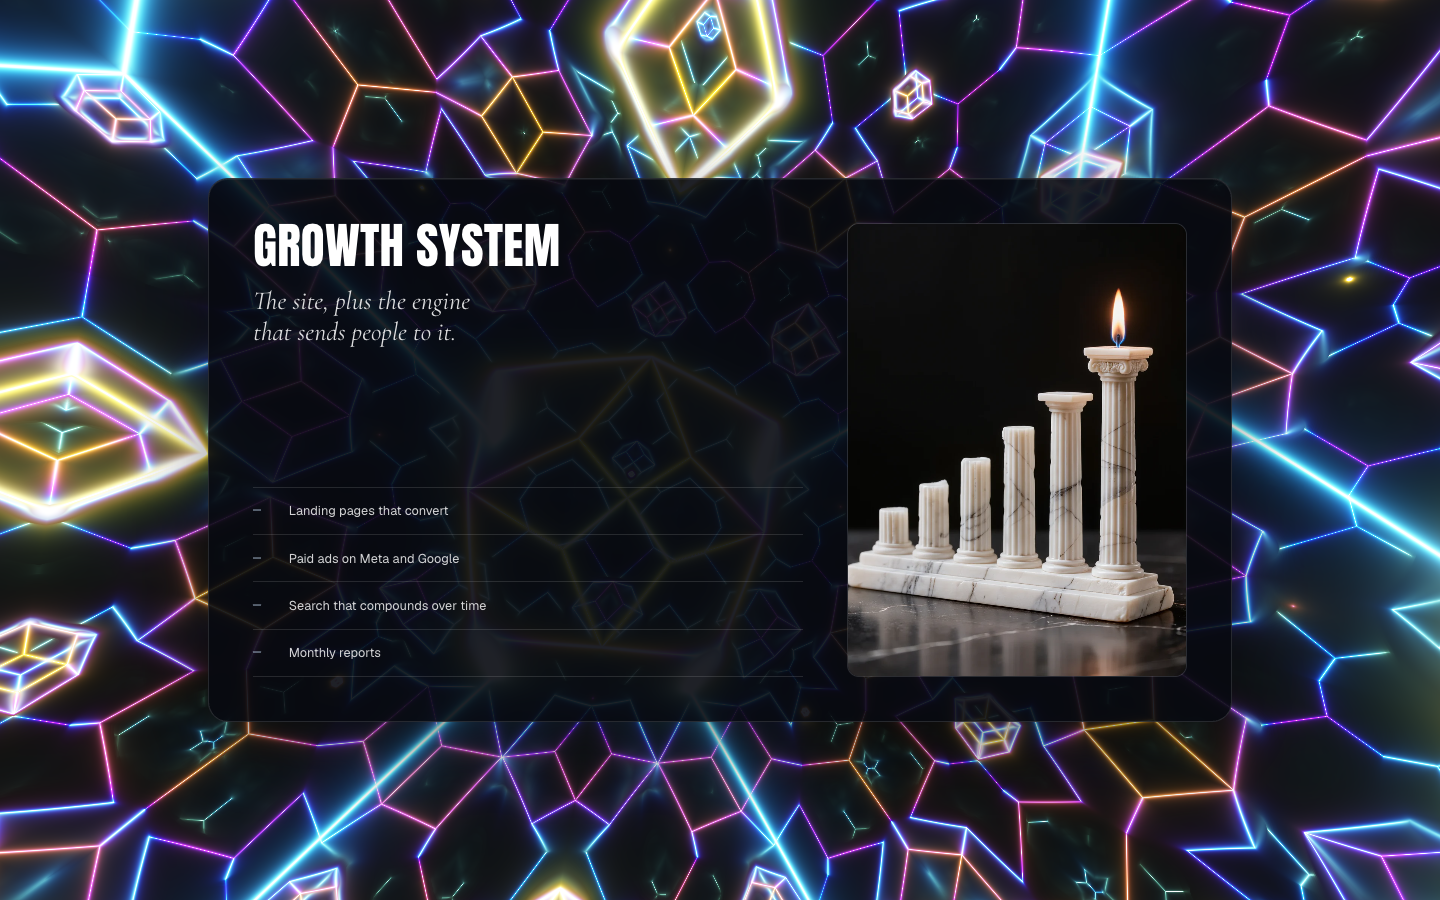
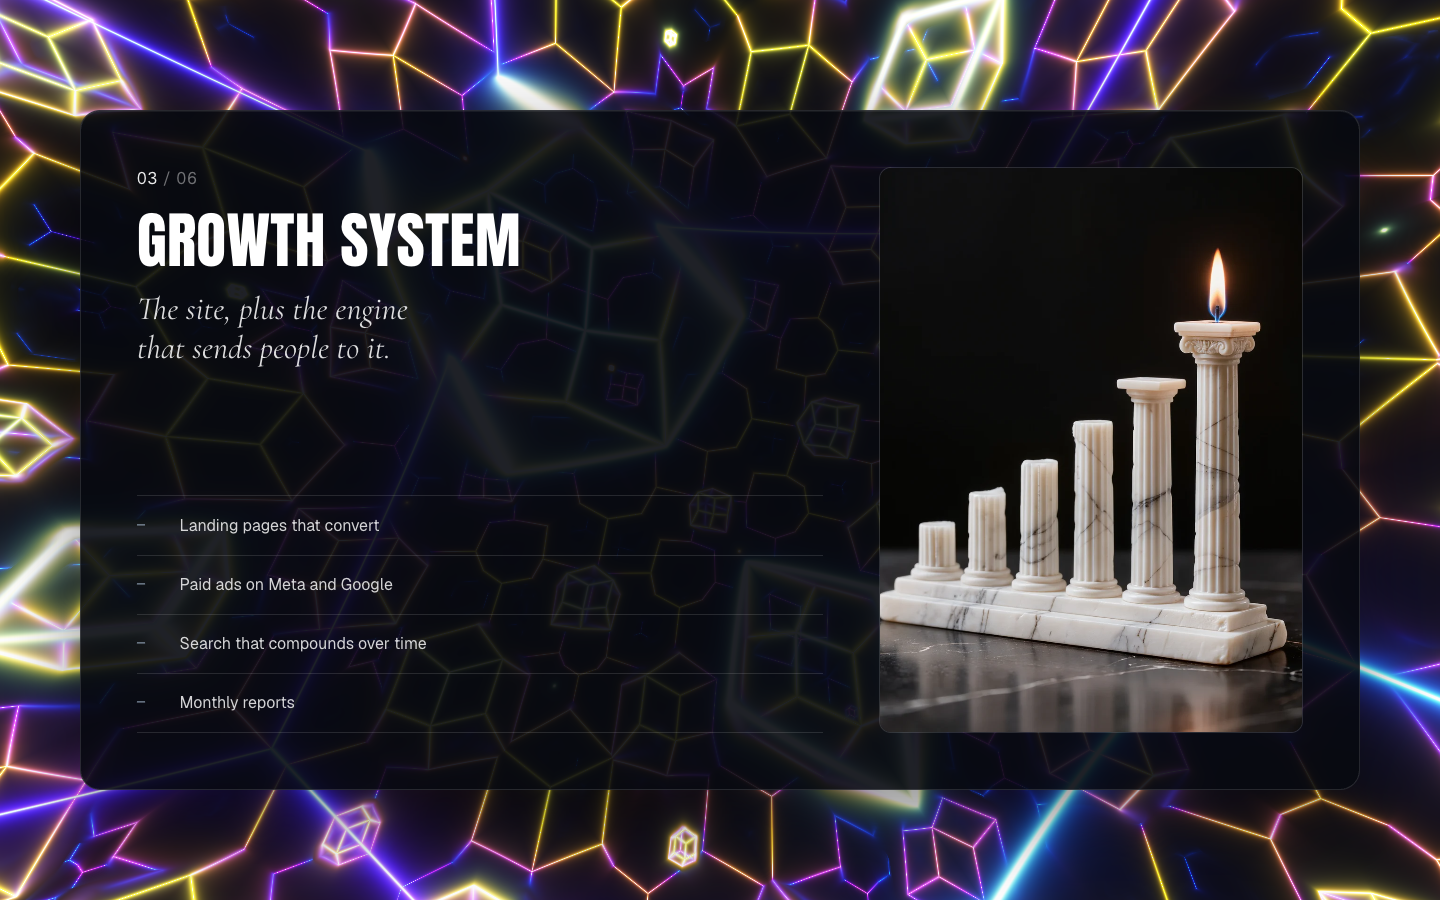
Deck cards numbered 01 to 06
Claude-Session: https://claude.ai/code/session_01NAdPXLUXCGhh82qBsMYyAh

diff --git a/src/hero/ServiceTabs.tsx b/src/hero/ServiceTabs.tsx
@@ -54,7 +54,8 @@ export function ServiceTabs() {
       {SERVICES.map((s, i) => (
         <section key={s.title} className="deck__card" ref={(el) => { cards.current[i] = el; }}>
           <div className="deck__text">
-            <h3 className="deck__title">{s.title}</h3>
+            <span className="deck__index" aria-hidden="true">{String(i + 1).padStart(2, "0")}<span className="deck__of"> / {String(SERVICES.length).padStart(2, "0")}</span></span>
+            <h3 className="deck__title"><span className="sr-only">{i + 1} of {SERVICES.length}. </span>{s.title}</h3>
             <p className="deck__lead">{s.lead}</p>
             {s.points.length > 0 && (
               <ul className="deck__points">

diff --git a/src/app/globals.css b/src/app/globals.css
@@ -443,6 +443,18 @@ footer.section {
   flex-direction: column;
   min-width: 0;
 }
+.deck__index {
+  display: block;
+  margin: 0 0 calc(var(--pad) / var(--phi));
+  font-family: var(--font-body);
+  font-size: var(--step-0);
+  font-variant-numeric: tabular-nums;
+  letter-spacing: 0.06em;
+  color: rgba(255, 255, 255, 0.92);
+}
+.deck__of {
+  color: rgba(255, 255, 255, 0.42);
+}
 .deck__title {
   margin: 0 0 calc(var(--pad) / var(--phi));
   font-family: var(--font-wordmark);
